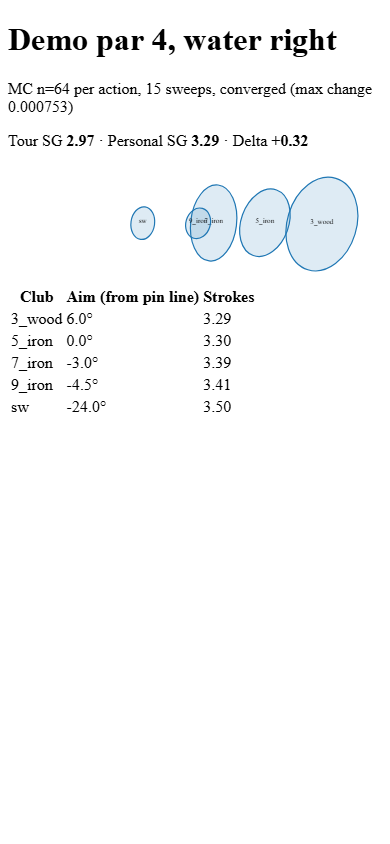
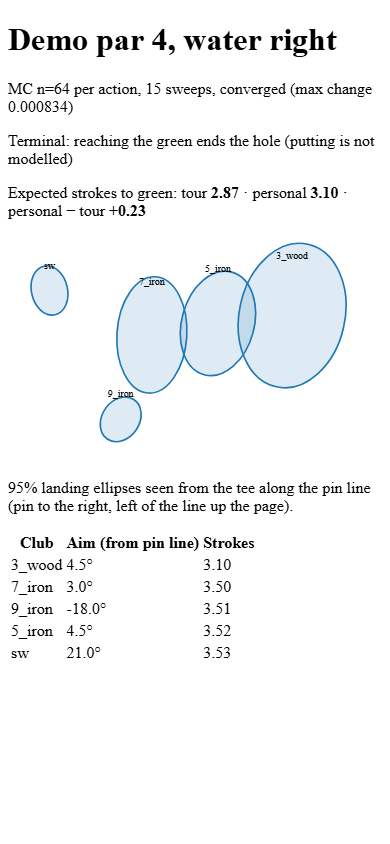
feat(sg): strokes-to-green labels, worst-solve convergence, pin-line ellipse frame (#14572)
F1: label expected strokes to green and state the terminal mode.
F2: convergence uses both solves and SolveSettings.tol.
F3: draw every ellipse in one pin-line frame with pinned rotate/cy signs.

Changed region(s): [[0.0, 0.1232, 0.9538, 0.5237], [0.0, 0.5545, 0.9538, 0.8009]]

diff --git a/src/shared/python/sg_optimizer/strategy_view.py b/src/shared/python/sg_optimizer/strategy_view.py
@@ -3,6 +3,7 @@
 from __future__ import annotations
 
 import html
+import math
 from dataclasses import dataclass
 
 from src.shared.python.sg_optimizer.mdp.value_iteration import SolveResult
@@ -14,9 +15,6 @@ from src.shared.python.sg_optimizer.strategy import (
     StrategyProblem,
     solve_mdp,
 )
-
-
-_SOLVE_TOL = 1e-3  # HoleMDP.solve default tolerance
 
 
 @dataclass(frozen=True)
@@ -35,6 +33,7 @@ class StrategyView:
     iterations: int = 0
     residual: float = 0.0
     converged: bool = True
+    green_terminal: bool = True
 
     @property
     def delta(self) -> float | None:
@@ -51,6 +50,7 @@ def build_view(
     *,
     quick_tour: bool = False,
     top: int = 5,
+    green_terminal_mode: bool = True,
     model: ShotOutcomeModel | None = None,
     settings: SolveSettings = SolveSettings(),  # noqa: B008 - frozen, immutable
 ) -> StrategyView:
@@ -60,11 +60,16 @@ def build_view(
     tour_strokes = t_mdp.expected_strokes(problem.start, t_res.value)
     if quick_tour:
         opts = shot_options(t_mdp, t_res.value, problem.start, top=top)
-        return _view(hole, tour_strokes, None, opts, t_res, settings)
-    p_mdp, p_res = solve_mdp(problem, profile, model, settings)
-    opts = shot_options(p_mdp, p_res.value, problem.start, model=model, top=top)
-    personal = p_mdp.expected_strokes(problem.start, p_res.value)
-    return _view(hole, tour_strokes, personal, opts, p_res, settings)
+        results = (t_res,)
+        personal = None
+    else:
+        p_mdp, p_res = solve_mdp(problem, profile, model, settings)
+        opts = shot_options(p_mdp, p_res.value, problem.start, model=model, top=top)
+        personal = p_mdp.expected_strokes(problem.start, p_res.value)
+        results = (t_res, p_res)
+    return _view(
+        hole, tour_strokes, personal, opts, results, settings, green_terminal_mode
+    )
 
 
 def _view(
@@ -72,18 +77,22 @@ def _view(
     tour: float,
     personal: float | None,
     options: tuple[ShotOption, ...],
-    result: SolveResult,
+    results: tuple[SolveResult, ...],
     settings: SolveSettings,
+    green_terminal_mode: bool,
 ) -> StrategyView:
+    """Fold every solve into one verdict: the worst residual decides convergence."""
+    residual = max(r.delta for r in results)
     return StrategyView(
         hole,
         tour,
         personal,
         options,
         n_samples=settings.n_samples,
-        iterations=result.iterations,
-        residual=result.delta,
-        converged=result.delta < _SOLVE_TOL,
+        iterations=max(r.iterations for r in results),
+        residual=residual,
+        converged=residual < settings.tol,
+        green_terminal=green_terminal_mode,
     )
 
 
@@ -105,12 +114,33 @@ def _solve_note(view: StrategyView) -> str:
     )
 
 
+def _terminal_note(view: StrategyView) -> str:
+    if view.green_terminal:
+        return "Terminal: reaching the green ends the hole (putting is not modelled)"
+    return "Terminal: pin cell only (value depends on raster resolution)"
+
+
+def _pin_frame(o: ShotOption) -> tuple[float, float, float]:
+    """Ellipse centre and axis in the golfer's pin-line frame, SVG coordinates.
+
+    The option's ellipse is in its own aim frame; rotating by ``aim_deg`` puts
+    every option on one common x-axis (the pin line, pin to the right). SVG y runs
+    down, so left of the pin line plots up and rotations flip sign.
+    """
+    e, a = o.ellipse, math.radians(o.aim_deg)
+    x = e.centre_along * math.cos(a) - e.centre_lateral * math.sin(a)
+    y = e.centre_along * math.sin(a) + e.centre_lateral * math.cos(a)
+    return x, -y, -(e.angle_deg + o.aim_deg)
+
+
 def render_text(view: StrategyView) -> str:
     """Plain-text report for the CLI."""
     tour, personal, delta = _numbers(view)
     lines = [
         f"Hole: {view.hole}",
-        f"Expected strokes  tour: {tour}   personal: {personal}   delta: {delta}",
+        "Expected strokes to green  "
+        f"tour: {tour}   personal: {personal}   personal - tour: {delta}",
+        _terminal_note(view),
         _solve_note(view),
         "",
         f"{'club':<10}{'aim vs pin':>11}{'strokes':>9}{'carry':>8}{'95% long':>10}{'95% wide':>10}",
@@ -127,16 +157,17 @@ def render_text(view: StrategyView) -> str:
 def render_html(view: StrategyView) -> str:
     """Self-contained page: both numbers, option table and an SVG of the ellipses."""
     tour, personal, delta = _numbers(view)
-    reach = max(o.ellipse.centre_along + o.ellipse.semi_major for o in view.options)
-    span = max(o.ellipse.semi_major for o in view.options) * 1.2
+    placed = [(_pin_frame(o), o) for o in view.options]
+    far = max(x + o.ellipse.semi_major for (x, _, _), o in placed)
+    near = min(x - o.ellipse.semi_major for (x, _, _), o in placed)
+    span = max(abs(y) + o.ellipse.semi_major for (_, y, _), o in placed)
     shapes = "".join(
-        f'<ellipse cx="{o.ellipse.centre_along:.1f}" cy="{o.ellipse.centre_lateral:.1f}" '
-        f'rx="{o.ellipse.semi_major:.1f}" ry="{o.ellipse.semi_minor:.1f}" '
-        f'transform="rotate({-o.ellipse.angle_deg:.1f} {o.ellipse.centre_along:.1f} {o.ellipse.centre_lateral:.1f})" '
+        f'<ellipse cx="{x:.1f}" cy="{y:.1f}" rx="{o.ellipse.semi_major:.1f}" '
+        f'ry="{o.ellipse.semi_minor:.1f}" transform="rotate({rot:.1f} {x:.1f} {y:.1f})" '
         f'fill="rgba(31,119,180,0.15)" stroke="#1f77b4"><title>{html.escape(o.club)}</title></ellipse>'
-        f'<text x="{o.ellipse.centre_along:.1f}" y="{o.ellipse.centre_lateral:.1f}" font-size="6" '
+        f'<text x="{x:.1f}" y="{y - o.ellipse.semi_minor - 2 - 7 * (i % 2):.1f}" font-size="6" '
         f'text-anchor="middle">{html.escape(o.club)}</text>'
-        for o in view.options
+        for i, ((x, y, rot), o) in enumerate(placed)
     )
     rows = "".join(
         f"<tr><td>{html.escape(o.club)}</td><td>{o.aim_deg:.1f}&deg;</td>"
@@ -147,8 +178,13 @@ def render_html(view: StrategyView) -> str:
         "<!doctype html><meta charset='utf-8'><meta name='viewport' content='width=device-width'>"
         f"<title>Strategy: {html.escape(view.hole)}</title>"
         f"<h1>{html.escape(view.hole)}</h1><p>{html.escape(_solve_note(view))}</p>"
-        f"<p>Tour SG <b>{tour}</b> &middot; Personal SG <b>{personal}</b> &middot; Delta <b>{delta}</b></p>"
-        f"<svg viewBox='-10 {-span:.0f} {reach + 20:.0f} {2 * span:.0f}' width='100%' "
-        f"role='img' aria-label='Dispersion ellipses'>{shapes}</svg>"
+        f"<p>{html.escape(_terminal_note(view))}</p>"
+        f"<p>Expected strokes to green: tour <b>{tour}</b> &middot; personal <b>{personal}</b>"
+        f" &middot; personal &minus; tour <b>{delta}</b></p>"
+        f"<svg viewBox='{near - 10:.0f} {-span - 4:.0f} {far - near + 20:.0f} {2 * span + 8:.0f}' "
+        "width='100%' style='max-height:70vh' role='img' aria-label='Dispersion ellipses'>"
+        f"{shapes}</svg>"
+        "<p>95% landing ellipses seen from the tee along the pin line "
+        "(pin to the right, left of the line up the page).</p>"
         f"<table><tr><th>Club</th><th>Aim (from pin line)</th><th>Strokes</th></tr>{rows}</table>"
     )

diff --git a/src/shared/python/sg_optimizer/strategy.py b/src/shared/python/sg_optimizer/strategy.py
@@ -50,6 +50,7 @@ class SolveSettings:
     n_samples: int = 64
     seed: int = 0
     max_iter: int = 200
+    tol: float = 1e-3
 
 
 def green_terminal(raster: LieRaster) -> LieRaster:
@@ -82,7 +83,7 @@ def solve_mdp(
         cfg.seed,
         model=model,
     )
-    return mdp, mdp.solve(max_iter=cfg.max_iter)
+    return mdp, mdp.solve(tol=cfg.tol, max_iter=cfg.max_iter)
 
 
 def _solve(

diff --git a/src/shared/python/sg_optimizer/strategy_cli.py b/src/shared/python/sg_optimizer/strategy_cli.py
@@ -84,6 +84,7 @@ def run_strategy(args: argparse.Namespace) -> int:
         PlayerProfile.from_yaml(args.profile),
         quick_tour=args.quick_tour,
         top=args.top,
+        green_terminal_mode=not args.pin_only,
         settings=SolveSettings(args.n_samples, args.seed, args.max_iter),
     )
     sys.stdout.write(render_text(view))

diff --git a/tests/integration/sg_optimizer/test_strategy_cli.py b/tests/integration/sg_optimizer/test_strategy_cli.py
@@ -58,4 +58,4 @@ def test_html_option_writes_the_view(tmp_path) -> None:
     rc, _ = _run(tmp_path, "--html", str(page))
     assert rc == 0
     body = page.read_text(encoding="utf-8")
-    assert "<ellipse" in body and "Tour SG" in body and "Personal SG" in body
+    assert "<ellipse" in body and "strokes to green" in body
